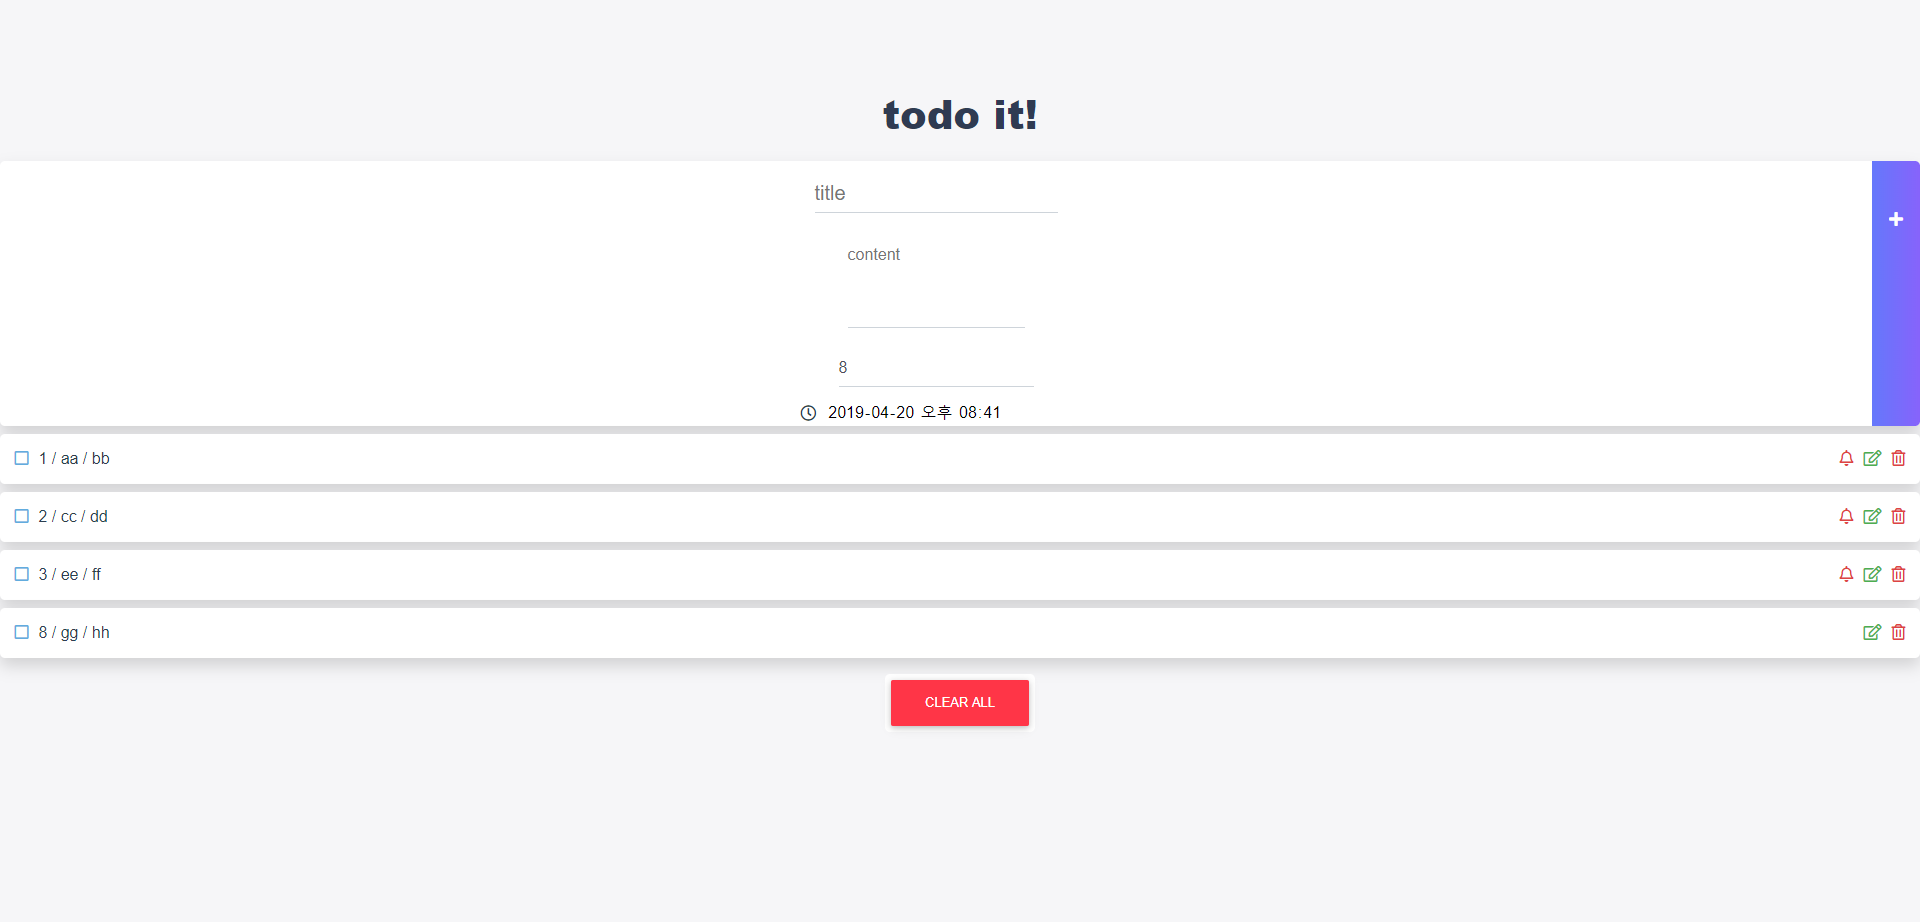
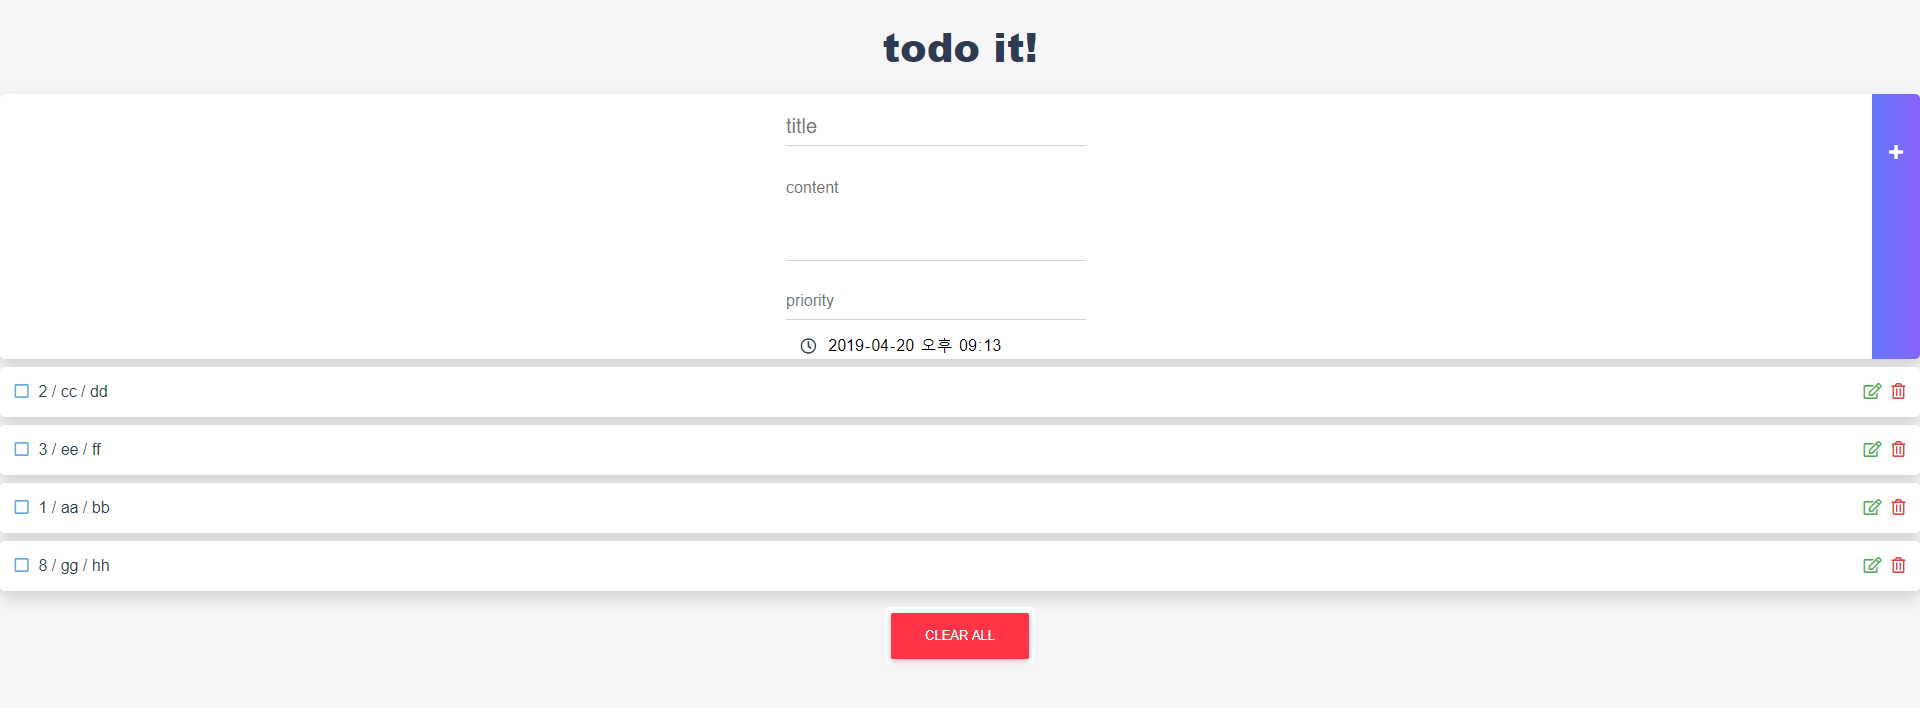
Modify screen_shot

diff --git a/src/App.vue b/src/App.vue
@@ -41,7 +41,7 @@
                 <input type="datetime-local" class="datetime-local" v-model="modalTodo.deadline"/>
             </mdb-modal-body>
             <mdb-modal-footer>
-                <mdb-btn color="primary" @click="saveEditedTodo">Save changes</mdb-btn>
+                <mdb-btn class="save" color="primary" @click="saveEditedTodo">Save changes</mdb-btn>
             </mdb-modal-footer>
         </mdb-modal>
     </div>
@@ -254,4 +254,7 @@
         border-style: none;
     }
 
+    .modal-title {
+        font-size: 2rem;
+    }
 </style>

diff --git a/src/components/TodoInput.vue b/src/components/TodoInput.vue
@@ -131,6 +131,7 @@
     .innerInputBox > .title,
     .innerInputBox > .content,
     .innerInputBox > .priority {
+        width: 300px;
         margin: 5px 0 5px 0;
     }
 
@@ -147,4 +148,5 @@
         color: white;
         margin: 50px 0;
     }
+
 </style>
